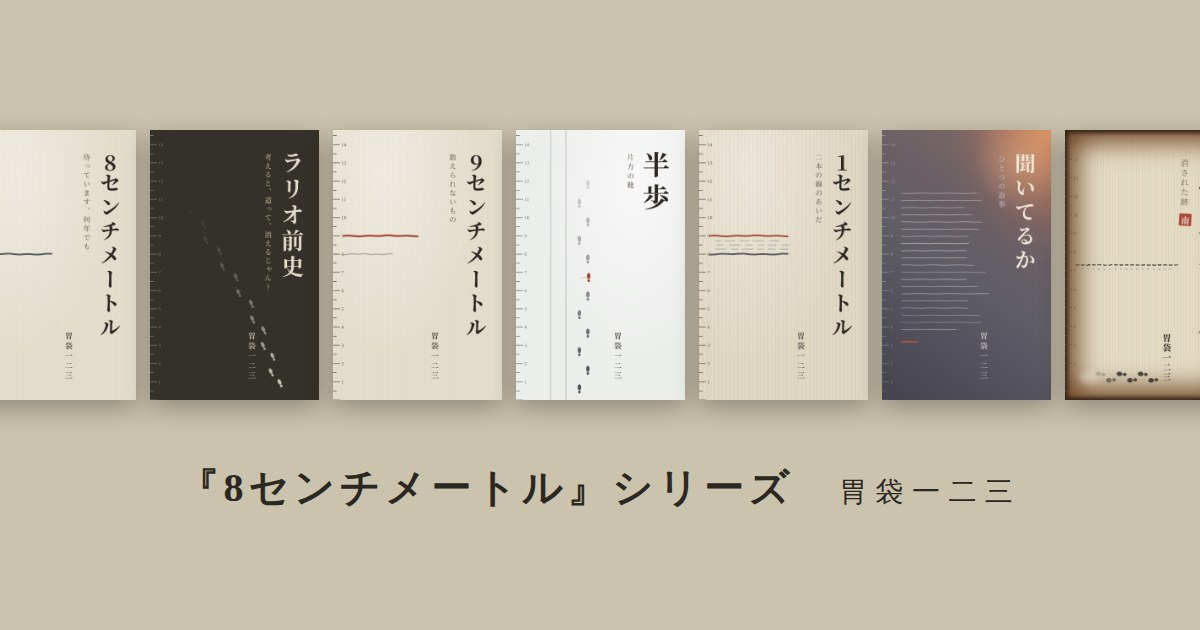
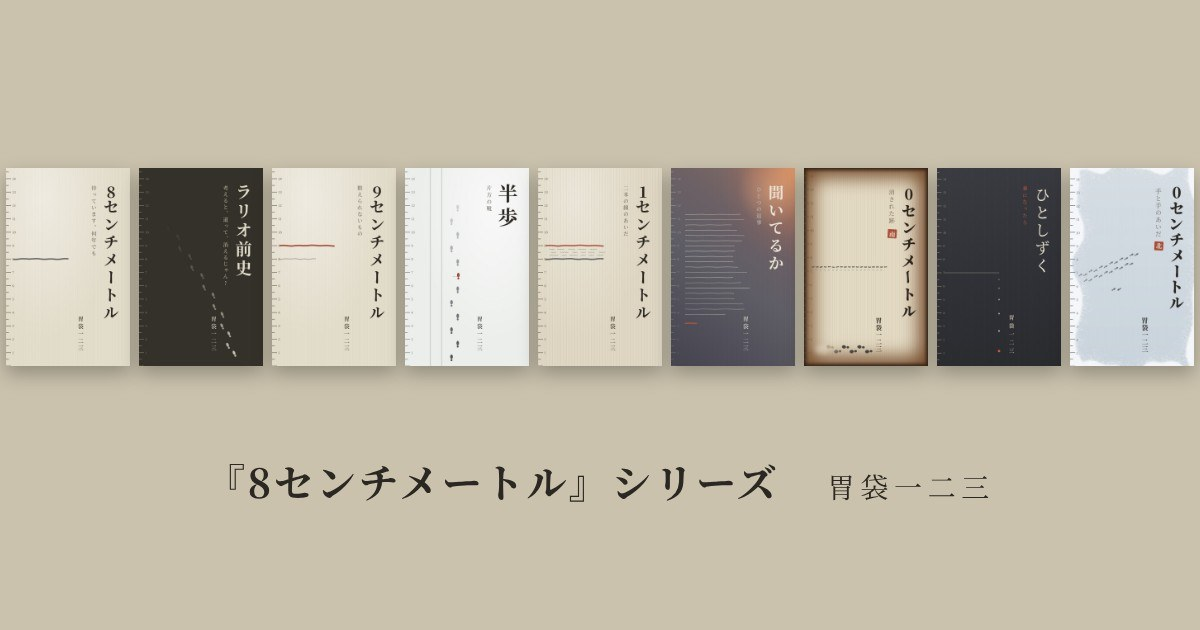
og_series.jpg を九作の表紙の並びで作り直す（ひとしずく・0センチメートル　北を足す）。index.html の指定に ?v=2、sw.js を v27 に
Claude-Session: https://claude.ai/code/session_01JKgDufCVpAMjHNTj4DSGA2

diff --git a/index.html b/index.html
@@ -10,7 +10,7 @@
 <meta property="og:title" content="『8センチメートル』シリーズ">
 <meta property="og:description" content="身長八センチメートルの小さき者たちの物語。九作を、そのまま読めます。">
 <meta property="og:url" content="https://ibukuro123.github.io/8cm/">
-<meta property="og:image" content="https://ibukuro123.github.io/8cm/og/og_series.jpg">
+<meta property="og:image" content="https://ibukuro123.github.io/8cm/og/og_series.jpg?v=2">
 <meta property="og:image:width" content="1200">
 <meta property="og:image:height" content="630">
 <meta name="twitter:card" content="summary_large_image">

diff --git a/sw.js b/sw.js
@@ -1,5 +1,5 @@
 /* 『8センチメートル』シリーズ  オフライン用 */
-const CACHE = '8cm-v26';
+const CACHE = '8cm-v27';
 const ASSETS = [
   './', './index.html',
   './8cm.html', './lario.html', './9cm.html', './hanpo.html', './1cm.html', './kiku.html', './minami.html', './hitoshizuku.html', './kita.html',
